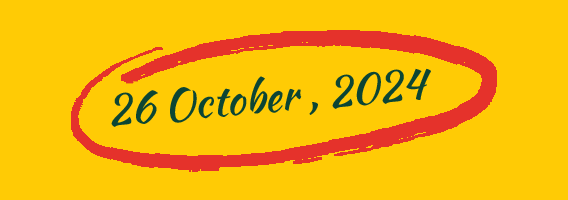
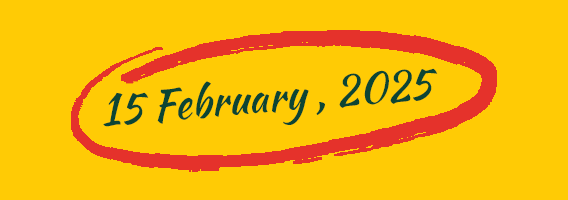
Update landing page

Changed region(s): [[0.1796, 0.33, 0.7782, 0.63]]

diff --git a/src/layouts/LandingSection.jsx b/src/layouts/LandingSection.jsx
@@ -2,34 +2,43 @@
 import { FaTicketAlt } from 'react-icons/fa'
 
 import date from '@/assets/images/date.png'
-//import michiganDevFestLogoDark from '@/assets/images/devfest_logo_dark.png'
-import DevFestLogo from '@/assets/images/DevFestLogo.png'
+import BHMSummitLogo from '@/assets/images/BHMSummitLogo.png'
 
 function LandingSection() {
   return (
     <section id="landing" className="mt-16">
       <div className="flex flex-wrap bg-black">
-        <div className="w-full p-12 sm:w-1/2">
+        <div className="w-full sm:w-1/2">
           <img
             className="w-full"
-            src={DevFestLogo}
-            alt="Michigan DevFest Logo"
+            src={BHMSummitLogo}
+            alt="Black History Innovation Summit Logo"
           />
         </div>
 
         <div className="flex w-full flex-col justify-between bg-primary-400 sm:w-1/2">
           <div className="flex grow flex-col items-center justify-center space-y-8 p-10">
             <img className="w-3/4" src={date} alt="Date and Red Circle" />
-
+            <h1 className="text-justify text-xl font-semibold lg:text-base xl:text-3xl">
+              Discover the Future of Tech Innovation in Detroit
+            </h1>
             <p className="text-justify text-sm font-normal lg:text-base xl:text-lg">
-              GDG Detroit in partnership with Black Tech Saturdays, COMPASS, NSBE Detroit, Clixie AI, Think
-              Technologies, DTE Energy, and Grand Circus is hosting a day of
-              learning, gathering, and celebrating Detroit&apos;s tech
-              ecosystem. This large-scale, in-person summit at Michigan Central
-              Station will offer a full day on the latest advancements in tech
-              and transformative impact of AI on industries. Content will be
-              provided by local tech and business leaders, Google, Google
-              Developer Experts, including a Build with AI workshop.
+              On Saturday, February 15, 2025, Detroit will become the epicenter
+              of technology and innovation as local professionals, founders, and
+              early-career professionals gather for a day of learning, building,
+              and connecting.
+              <br />
+              <br />
+              In partnership with Google Developer Group Detroit, Google, Black
+              Tech Saturdays, Clixie AI, Compass, NSBE Detroit, DTE and Think
+              Technologies, this large-scale in-person event at Michigan Central
+              Station and New Lab will spotlight the latest advancements in
+              technology and the transformative impact of AI on industries.
+              <br />
+              <br />
+              Attendees will engage in hands-on workshops, product demos, and
+              panel discussions with industry leaders, culminating in a lively
+              social hour designed for networking and collaboration.
             </p>
             <a
               href="https://events.eventnoire.com/e/black-tech-saturdays-3?utm_source=affiliate&utm_name=GDG-Link&utm_campaign=GDG-Link&utm_id=679934b71770480eb6a500120a1e60ce"

diff --git a/src/layouts/SpeakersSection.jsx b/src/layouts/SpeakersSection.jsx
@@ -16,7 +16,7 @@ function SpeakersSection() {
         className="flex flex-col justify-center px-8 sm:px-10 md:px-14 lg:px-16"
       >
         <div className="flex w-full justify-between pt-6 sm:pt-8 md:pt-12 lg:pt-14">
-          <header className="text-center font-russell  text-4xl md:text-5xl lg:text-6xl">
+          <header className="w-full text-center font-russell  text-4xl md:text-5xl lg:text-6xl">
             Speakers
           </header>
           <img
